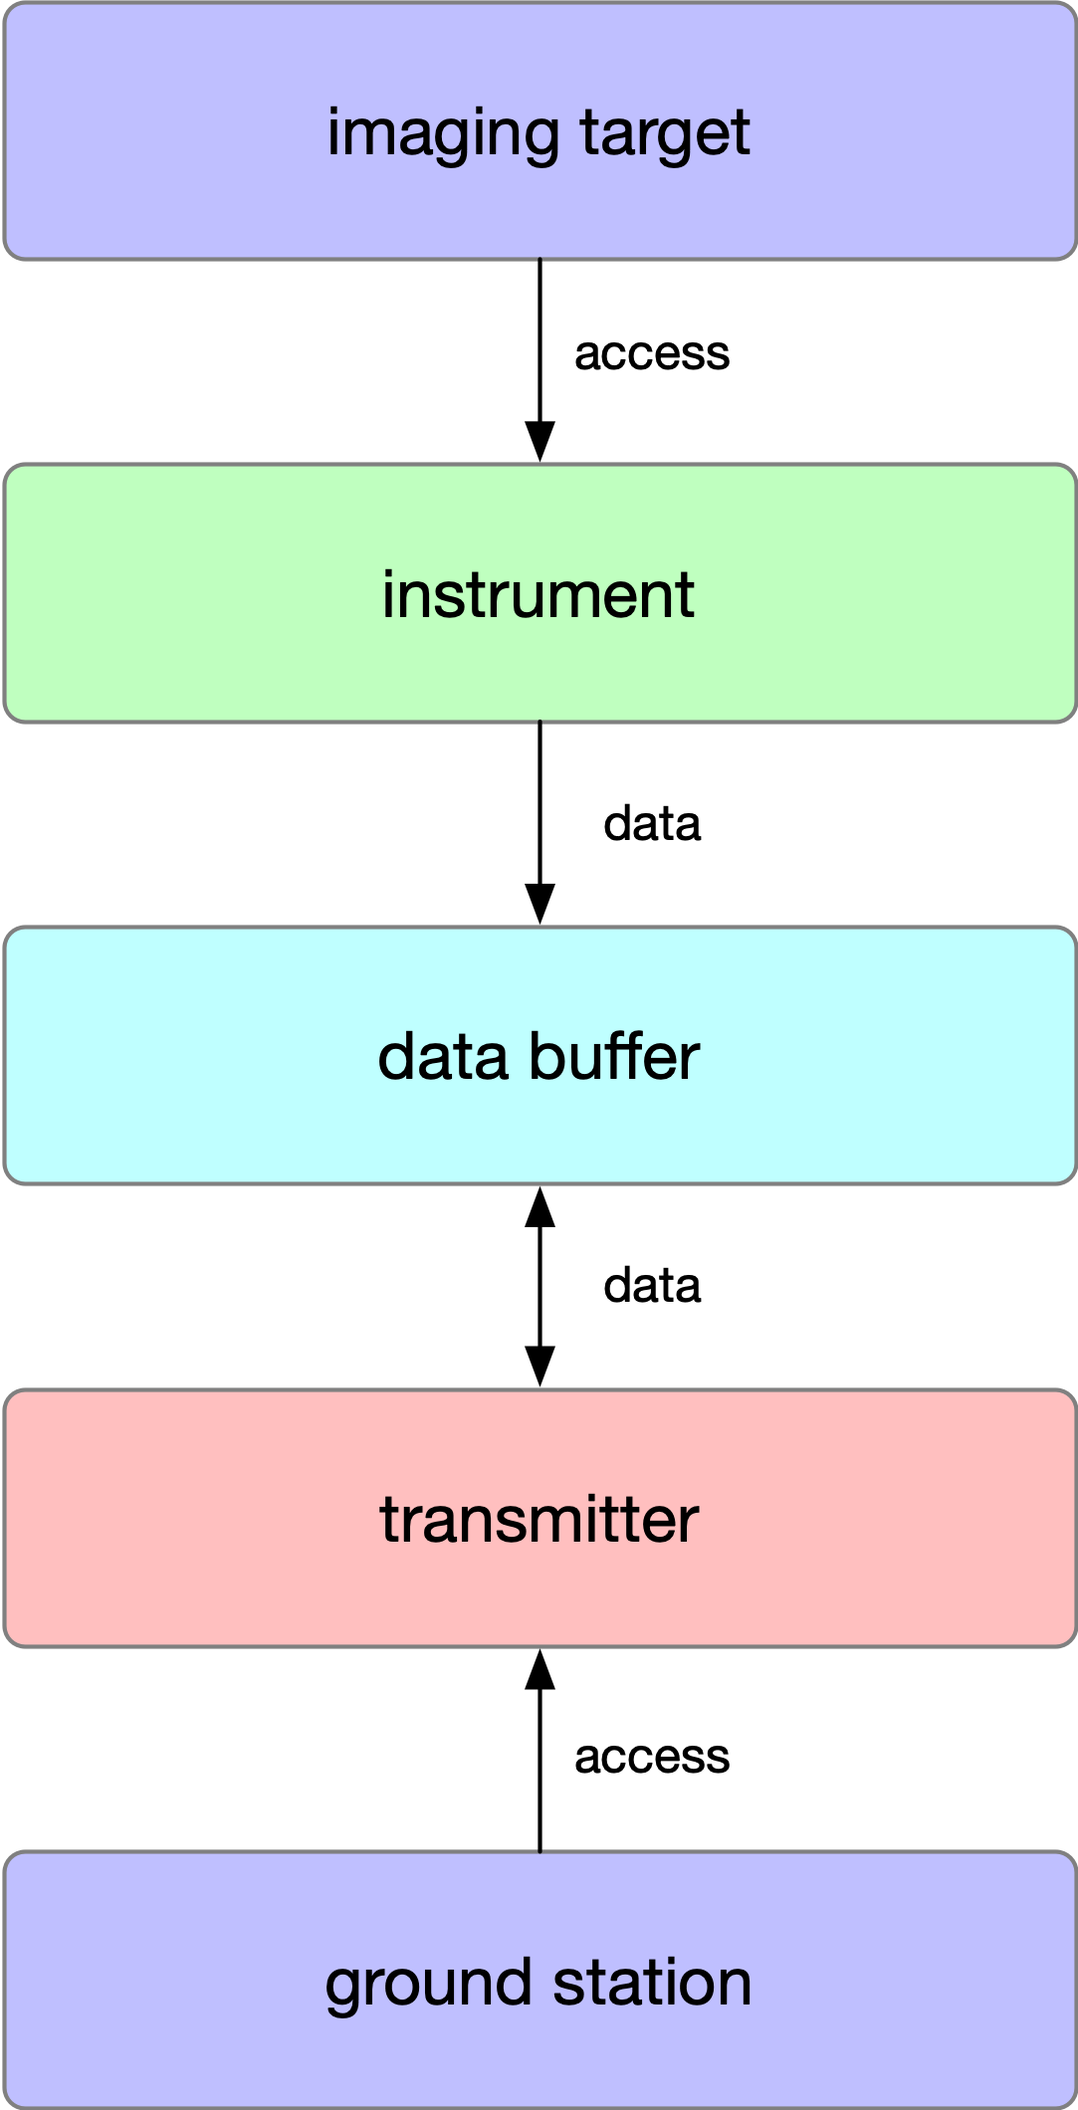
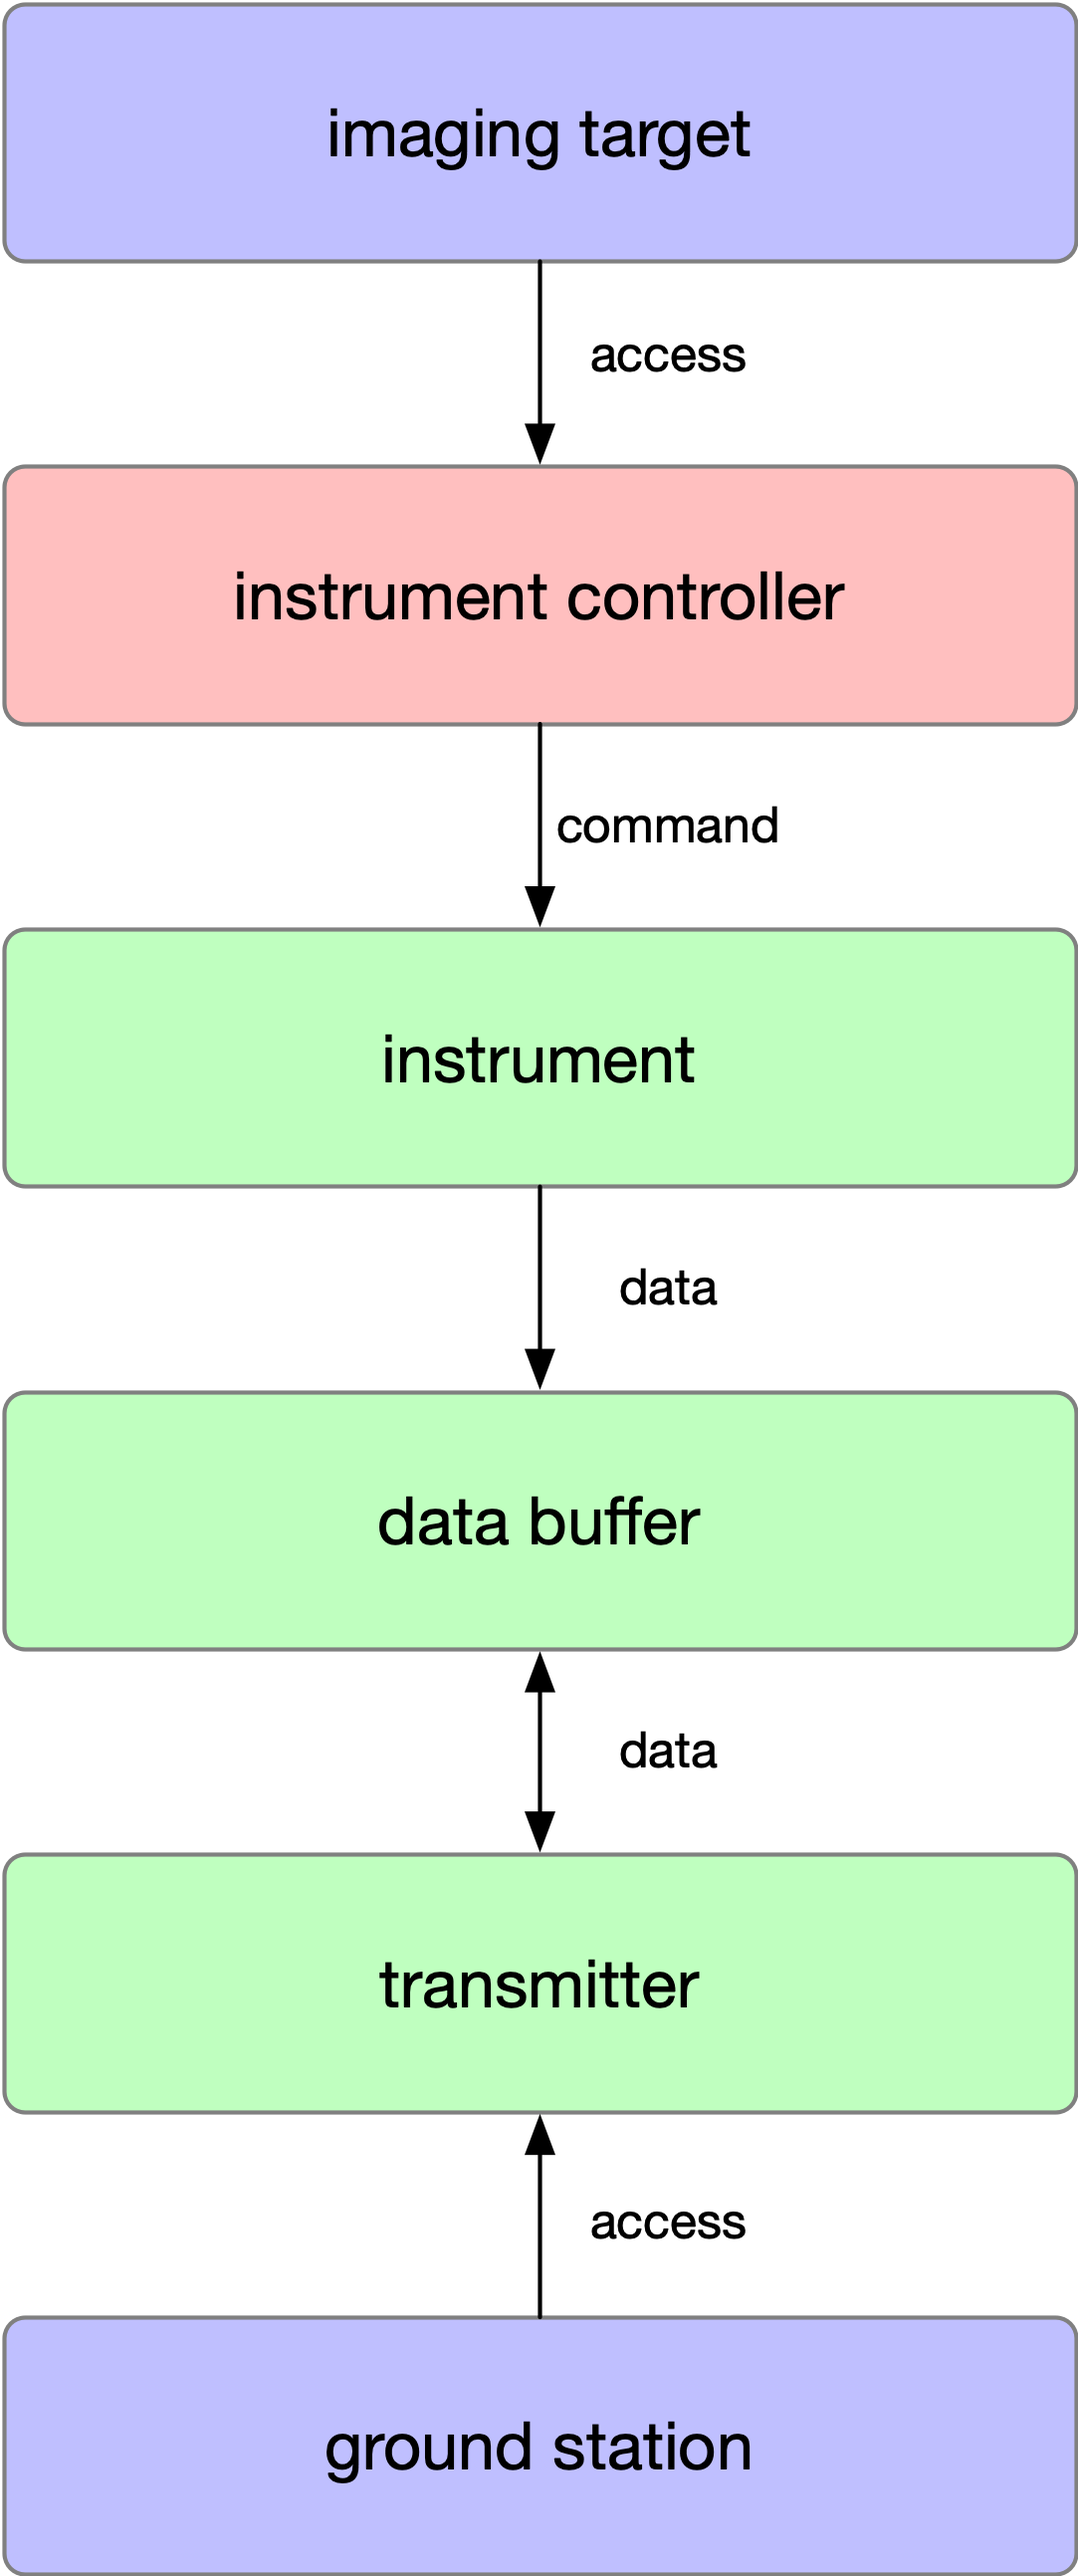
added landing pages for simulations

diff --git a/_contributions/2020-nadir-eos.md b/_contributions/2020-nadir-eos.md
@@ -1,0 +1,20 @@
+---
+name: "Nadir-Science Earth-Observing Satellite Scheduling Problem Simulation"
+layout: single
+title:  "Nadir-Science Earth-Observing Satellite Scheduling Problem Simulation"
+classes: wide
+# date:   2020-08-09 18:22:51 -0600
+collection: contributions
+
+header:
+  teaser: assets/concept_image_nadir.png
+---
+
+<figure style="width: 300px" class="align-right">
+  <img src="{{ site.url }}{{ site.baseurl }}/assets/concept_image_nadir.png" alt="">
+  <figcaption>Nadir-Science Earth-Observing Satellite Scheduling Problem Concept Figure.</figcaption>
+</figure> 
+
+Nadir EOS description here.
+
+[Source Code](https://bitbucket.org/avslab/basilisk-gym-interface/src/develop/basilisk_env/envs/leoNadirEnvironment/){: .btn .btn--primary .btn--large}

diff --git a/_contributions/2021-agile-eos.md b/_contributions/2021-agile-eos.md
@@ -1,0 +1,20 @@
+---
+name: "Agile Earth-Observing Satellite Scheduling Problem Simulation"
+layout: single
+title:  "Agile Earth-Observing Satellite Scheduling Problem Simulation"
+classes: wide
+# date:   2020-08-09 18:22:51 -0600
+collection: contributions
+
+header:
+  teaser: assets/concept_image_agile.png
+---
+
+<figure style="width: 300px" class="align-right">
+  <img src="{{ site.url }}{{ site.baseurl }}/assets/concept_image_agile.png" alt="">
+  <figcaption>Agile Earth-Observing Satellite Scheduling Problem Concept Figure.</figcaption>
+</figure>
+
+Agile EOS description here.
+
+[Source Code](https://bitbucket.org/avslab/basilisk-gym-interface/src/develop/basilisk_env/envs/multiTgtEarthEnvironment/){: .btn .btn--primary .btn--large}

diff --git a/_contributions/2022-small-body-science.md b/_contributions/2022-small-body-science.md
@@ -1,0 +1,20 @@
+---
+name: "Small Body Science Simulation"
+layout: single
+title:  "Small Body Science Simulation"
+classes: wide
+# date:   2020-08-09 18:22:51 -0600
+collection: contributions
+
+header:
+  teaser: assets/concept_image_small_body.png
+---
+
+<figure style="width: 300px" class="align-right">
+  <img src="{{ site.url }}{{ site.baseurl }}/assets/concept_image_small_body.png" alt="">
+  <figcaption>Small Body Science Concept Figure.</figcaption>
+</figure>
+
+Small body science description here.
+
+[Source Code](https://bitbucket.org/avslab/basilisk-gym-interface/src/develop/basilisk_env/envs/smallBodyScienceEnvironment/){: .btn .btn--primary .btn--large}

diff --git a/_contributions/2019-data-modelling.md b/_contributions/2019-data-modelling.md
@@ -12,7 +12,8 @@ header:
 
 <figure style="width: 300px" class="align-right">
   <img src="{{ site.url }}{{ site.baseurl }}/assets/data_system_diagram.png" alt="">
-  <figcaption>Parallelizing the spherical harmonic algorithm requires careful though how operations are sequence.</figcaption>
+  <figcaption>Example block diagram for a data system with a data buffer, transmitter, and instrument that only
+  images when certain access constraints are met.</figcaption>
 </figure> 
 
 On-board science data generation, downlink, and storage are an important part of planning and scheduling for both

diff --git a/_pages/contributions.md b/_pages/contributions.md
@@ -10,4 +10,4 @@ classes:
     - landing
 ---
 
-List all of the research entries
+Please refer to the links below for code I've written for various projects in my PhD.
